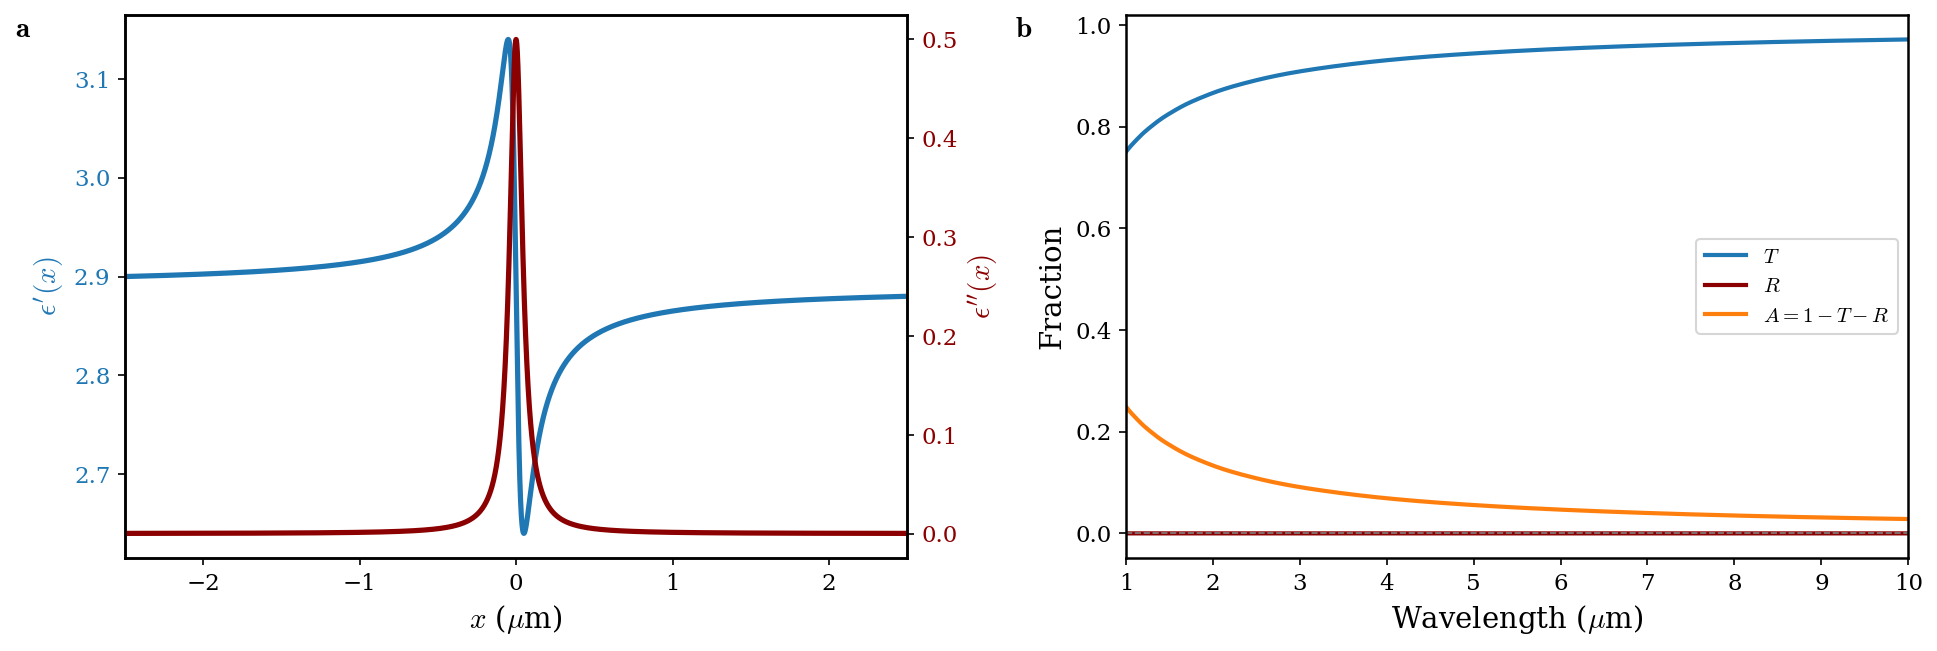
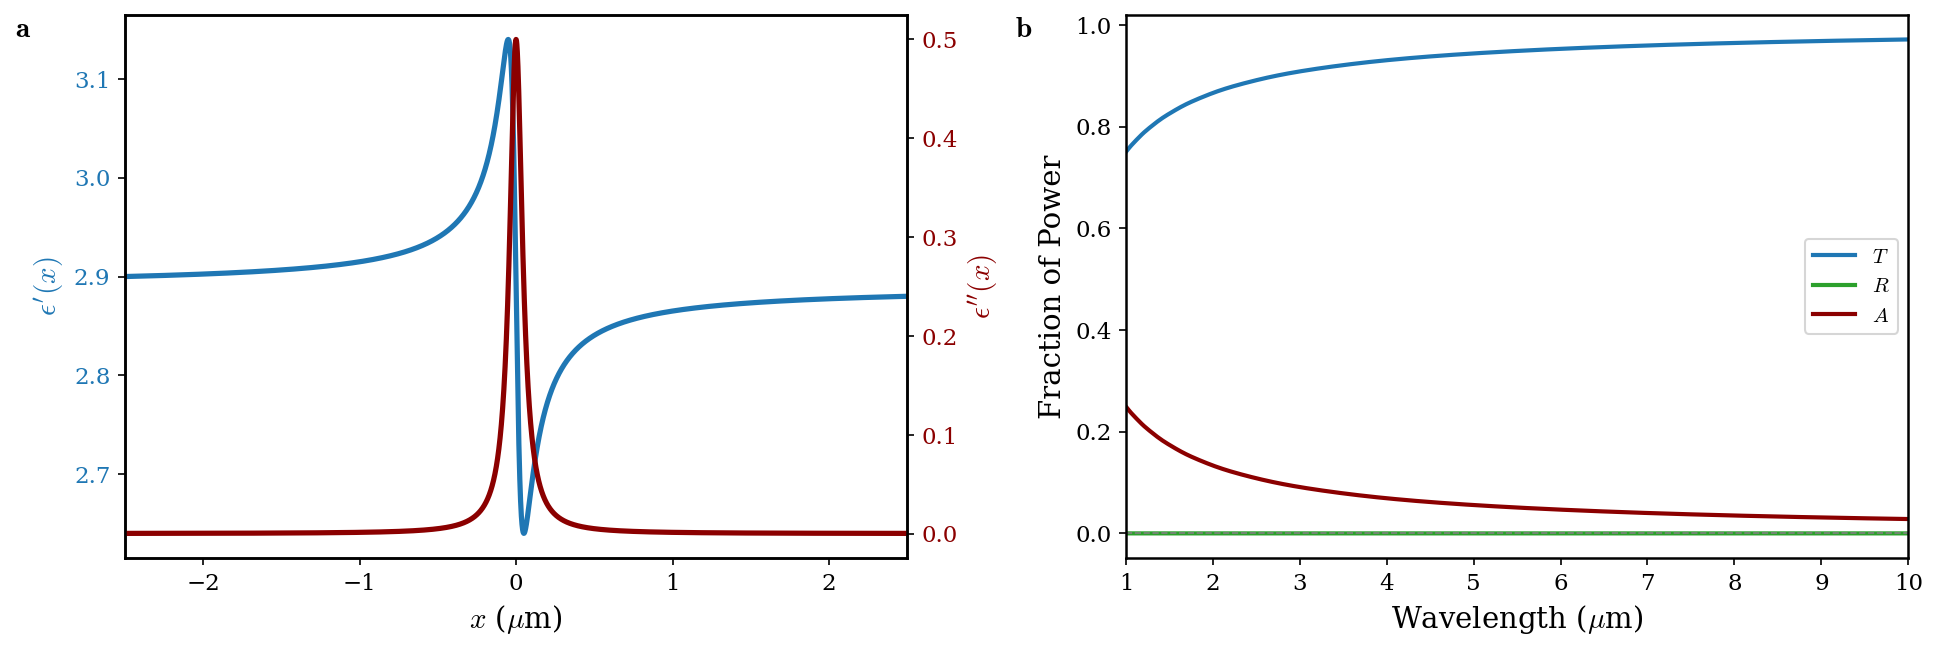
Fix TRA color convention: T=blue, R=green, A=red; y-label Fraction of Power
- Apply convention to fig1_4panel (panels b, d), fig_supp_lorentzian (panel b),
  and fig_naive_ht_TMM
- Remove panel letter textbox from fig_derivative_result (now supplemental-only)
- Regenerate all affected figures

diff --git a/theory/skk_analysis_consolidated.py b/theory/skk_analysis_consolidated.py
@@ -592,11 +592,11 @@ def fig_supp_lorentzian(S):
     T, R, A = tmm_h.TRA_wavelength(n_list, d_list, lambda_list, angle=0, pol='s')
 
     ax_b.plot(lambda_list, T, color=BLUE, lw=2, label='$T$')
-    ax_b.plot(lambda_list, R, color=RED, lw=2, label='$R$')
-    ax_b.plot(lambda_list, A, color=ORANGE, lw=2, label=r'$A = 1 - T - R$')
+    ax_b.plot(lambda_list, R, color=GREEN, lw=2, label='$R$')
+    ax_b.plot(lambda_list, A, color=RED, lw=2, label='$A$')
     ax_b.axhline(0, color='gray', lw=0.8, ls='--')
     ax_b.set_xlabel(r'Wavelength ($\mu$m)')
-    ax_b.set_ylabel('Fraction')
+    ax_b.set_ylabel('Fraction of Power')
     ax_b.set_xlim(lambda_list[0], lambda_list[-1])
     ax_b.legend(fontsize=10)
     ax_b.text(-0.12, 1.0, r'$\mathbf{b}$', transform=ax_b.transAxes, fontsize=14, va='top', ha='right')
@@ -658,12 +658,12 @@ def fig_naive_ht_TMM(S):
     T, R, A = tmm_h.TRA_wavelength(n_list, d_list, lambda_list, angle=0, pol='s')
 
     fig, ax = plt.subplots(figsize=(6.5, 4.5))
-    ax.plot(lambda_list, T, color=BLUE, lw=2, label='T')
-    ax.plot(lambda_list, R, color=RED, lw=2, label='R')
-    ax.plot(lambda_list, A, color=ORANGE, lw=2, label=r'$A = 1 - T - R$')
+    ax.plot(lambda_list, T, color=BLUE, lw=2, label='$T$')
+    ax.plot(lambda_list, R, color=GREEN, lw=2, label='$R$')
+    ax.plot(lambda_list, A, color=RED, lw=2, label='$A$')
     ax.axhline(0, color='gray', lw=0.8, ls='--')
     ax.set_xlabel(r'Wavelength ($\mu$m)')
-    ax.set_ylabel('Fraction')
+    ax.set_ylabel('Fraction of Power')
     ax.set_xlim(lambda_list[0], lambda_list[-1])
     ax.legend(fontsize=10)
     ax.text(-0.14, 1.0, r'$\mathbf{b}$', transform=ax.transAxes, fontsize=14, va='top', ha='right')
@@ -697,7 +697,6 @@ def fig_derivative_result(S):
     ax.tick_params(axis='y', labelcolor=BLUE)
     ax_r.tick_params(axis='y', labelcolor=ORANGE)
     ax.set_xlim(-2.5, 2.5)
-    ax.text(-0.14, 1.0, r'$\mathbf{c}$', transform=ax.transAxes, fontsize=14, va='top', ha='right')
     lines1, labels1 = ax.get_legend_handles_labels()
     lines2, labels2 = ax_r.get_legend_handles_labels()
     ax.legend(lines1 + lines2, labels1 + labels2, loc='lower left', fontsize=9)
@@ -800,11 +799,11 @@ def fig1_4panel(S):
 
     # (b) TRA of naive HT
     ax_b.plot(lambda_list, T_naive, color=BLUE, lw=2, label='$T$')
-    ax_b.plot(lambda_list, R_naive, color=RED, lw=2, label='$R$')
-    ax_b.plot(lambda_list, A_naive, color=ORANGE, lw=2, label=r'$A = 1 - T - R$')
+    ax_b.plot(lambda_list, R_naive, color=GREEN, lw=2, label='$R$')
+    ax_b.plot(lambda_list, A_naive, color=RED, lw=2, label='$A$')
     ax_b.axhline(0, color='gray', lw=0.8, ls='--')
     ax_b.set_xlabel(r'Wavelength ($\mu$m)')
-    ax_b.set_ylabel('Fraction')
+    ax_b.set_ylabel('Fraction of Power')
     ax_b.set_xlim(lambda_list[0], lambda_list[-1])
     ax_b.legend(fontsize=10)
     ax_b.text(-0.12, 1.0, r'$\mathbf{b}$', transform=ax_b.transAxes, fontsize=14, va='top', ha='right')
@@ -823,11 +822,11 @@ def fig1_4panel(S):
 
     # (d) TRA of corrected profile
     ax_d.plot(lambda_list, T_corr, color=BLUE, lw=2, label='$T$')
-    ax_d.plot(lambda_list, R_corr, color=RED, lw=2, label='$R$')
-    ax_d.plot(lambda_list, A_corr, color=ORANGE, lw=2, label=r'$A = 1 - T - R$')
+    ax_d.plot(lambda_list, R_corr, color=GREEN, lw=2, label='$R$')
+    ax_d.plot(lambda_list, A_corr, color=RED, lw=2, label='$A$')
     ax_d.axhline(0, color='gray', lw=0.8, ls='--')
     ax_d.set_xlabel(r'Wavelength ($\mu$m)')
-    ax_d.set_ylabel('Fraction')
+    ax_d.set_ylabel('Fraction of Power')
     ax_d.set_xlim(lambda_list[0], lambda_list[-1])
     ax_d.legend(fontsize=10)
     ax_d.text(-0.12, 1.0, r'$\mathbf{d}$', transform=ax_d.transAxes, fontsize=14, va='top', ha='right')
